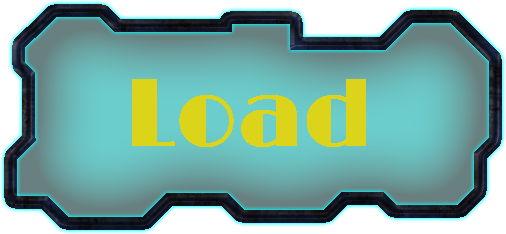
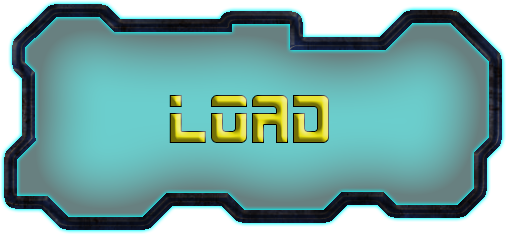
SOUND ON OFF

Changed region(s): [[0.2372, 0.3291, 0.7411, 0.6282]]

diff --git a/src/MenuState.cpp b/src/MenuState.cpp
@@ -81,8 +81,11 @@ namespace is
         this->_pathButton[Button::GUI_ID_BOUTON::GUI_ID_WALLPAPER_BUTTON] = this->_driver->getTexture("./ButtonGFX/bomberman3dtitle.png");
         this->_pathButton[Button::GUI_ID_BOUTON::GUI_ID_PRESS_BUTTON] = this->_driver->getTexture("./ButtonGFX/pressakeybutton.png");
         this->_pathButton[Button::GUI_ID_BOUTON::GUI_ID_WINNER] = this->_driver->getTexture("./ButtonGFX/thewinnerisbutton.png");
-        this->_pathButton[Button::GUI_ID_BOUTON::GUI_ID_LOAD_BUTTON] = this->_driver->getTexture("./ButtonGFX/capslockbutton.png");
-        this->_pathButton[Button::GUI_ID_BOUTON::GUI_ID_SAVE_BUTTON] = this->_driver->getTexture("./ButtonGFX/capslockbutton.png");
+        this->_pathButton[Button::GUI_ID_BOUTON::GUI_ID_LOAD_BUTTON] = this->_driver->getTexture("./ButtonGFX/loadbutton.png");
+        this->_pathButton[Button::GUI_ID_BOUTON::GUI_ID_SAVE_BUTTON] = this->_driver->getTexture("./ButtonGFX/savebutton.png");
+        this->_pathButton[Button::GUI_ID_BOUTON::GUI_ID_SOUND_ON_BUTTON] = this->_driver->getTexture("./ButtonGFX/soundonbutton.png");
+        this->_pathButton[Button::GUI_ID_BOUTON::GUI_ID_SOUND_OFF_BUTTON] = this->_driver->getTexture("./ButtonGFX/soundoffbutton.png");
+        
         this->initKeyTexture();
      }
   }

diff --git a/src/GameState.cpp b/src/GameState.cpp
@@ -70,8 +70,18 @@ namespace is
     changing = false;
     _engine->getDevice()->setEventReceiver(&_receiver);
     std::cerr << "initing game2" << std::endl;
+    if (_gui != NULL)
+      this->_font = _gui->getFont("./gfx/font_space.bmp");
+    this->addText();
   }
 
+  void GameState::addText()
+  {
+                        irr::gui::IGUIStaticText *text = this->_gui->addStaticText(irr::core::stringw("LOLLLLLLLLLLLLLLLLLLLLLLLLLLLLLLLLLLLLLLLLLL").c_str(),
+                                                        {10, 10, 100, 100});
+                        text->setOverrideFont(this->_font);
+                        this->_text.push_back(text);
+  }
   void GameState::Cleanup(void)
   {
   }
@@ -112,7 +122,7 @@ namespace is
     // A changer
     _char.remove_if([&](auto &Char) {
       if (!Char->getAlive())
-	Char->die();
+	    Char->die();
       return !Char->getAlive();
     });
     this->_bombs->checkBombsStatus(_char);
@@ -129,6 +139,8 @@ namespace is
 //    _map->printMap();
     //_cam->draw();
     //_map->draw();
+    for (auto &text : this->_text)
+      text->draw();
     this->_driver->endScene();
   }
 

diff --git a/src/OptionsEventReceiver.cpp b/src/OptionsEventReceiver.cpp
@@ -76,6 +76,18 @@ void is::OptionsEventReceiver::_guiEvent(const irr::SEvent &event)
 	      _change = CHANGE::POP;
 	    	}
 	  break;
+		case ((irr::s32)Button::GUI_ID_BOUTON::GUI_ID_SOUND_ON_BUTTON):
+	    {
+				event.GUIEvent.Caller->setID((irr::s32)Button::GUI_ID_BOUTON::GUI_ID_SOUND_OFF_BUTTON);
+				this->_optionsContext->engine->getSound().setVolume(0);
+	    }
+	  break;
+		case ((irr::s32)Button::GUI_ID_BOUTON::GUI_ID_SOUND_OFF_BUTTON):
+	    {
+				event.GUIEvent.Caller->setID((irr::s32)Button::GUI_ID_BOUTON::GUI_ID_SOUND_ON_BUTTON);
+				this->_optionsContext->engine->getSound().setVolume(0.1);
+	    }
+	  break;
 		case ((irr::s32)Button::GUI_ID_BOUTON::GUI_ID_TMP_MOVE_ACTION_BUTTON):
 	  break;
 		case ((irr::s32)Button::GUI_ID_BOUTON::GUI_ID_TMP_MOVE_FORWARD_BUTTON):

diff --git a/include/GameState.hpp b/include/GameState.hpp
@@ -40,6 +40,7 @@ namespace is
     virtual void ChangeState(GameEngine *engine,
 			     IGameState *state);
    private:
+   void          addText();
     CHANGE 					_change;
     ParseMap	    				_parserMap;
     GenerateMap					_genMap;
@@ -55,6 +56,8 @@ namespace is
     GameEventReceiver				_receiver;
     std::shared_ptr<Camera>			_cam;
     bool					changing;
+    std::vector<irr::gui::IGUIStaticText*> 	    _text;
+    irr::gui::IGUIFont                          *_font;
   };
 }
 

diff --git a/src/MenuEventReceiver.cpp b/src/MenuEventReceiver.cpp
@@ -27,7 +27,7 @@ bool 		is::MenuEventReceiver::OnEvent(const irr::SEvent &event)
 						_change = CHANGE::GAME;
 				break;
 				case ((irr::s32)Button::GUI_ID_BOUTON::GUI_ID_LOAD_BUTTON):
-						_change = CHANGE::GAME; // change pour load le game
+						_change = CHANGE::GAME;
 				break;
 				case ((irr::s32)Button::GUI_ID_BOUTON::GUI_ID_OPTIONS_BUTTON):
 						_change = CHANGE::OPTION;

diff --git a/src/OptionsState.cpp b/src/OptionsState.cpp
@@ -144,6 +144,14 @@ void is::OptionsState::Init(is::GameEngine *engine)
 		  20 + BUTTON_HEIGHT,
 		  (irr::s32) Button::GUI_ID_BOUTON::GUI_ID_CHANGE_PLAYER1_BUTTON,
 			""
+	  },
+	  {
+		  20,
+		  windowSize.Y - BUTTON_HEIGHT - 20,
+			20 + BUTTON_WIDTH,
+		  windowSize.Y - 20,
+		  (irr::s32) Button::GUI_ID_BOUTON::GUI_ID_SOUND_ON_BUTTON,
+			""
 	  }
   };
 

diff --git a/include/Button.hpp b/include/Button.hpp
@@ -51,6 +51,8 @@ namespace is
       GUI_ID_DELETE_AI,
       GUI_ID_LOAD_BUTTON,
       GUI_ID_SAVE_BUTTON,
+      GUI_ID_SOUND_ON_BUTTON,
+      GUI_ID_SOUND_OFF_BUTTON,
       GUI_ID_LENGTH,
     };
 

diff --git a/src/Sound.cpp b/src/Sound.cpp
@@ -13,6 +13,7 @@
 Sound::Sound()
 {
   _soundEngine = irrklang::createIrrKlangDevice();
+  _soundEngine->setSoundVolume(0.1);
 }
 
 Sound::~Sound()
